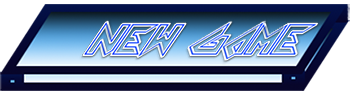
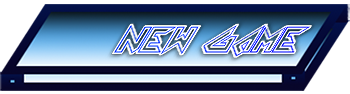
half progress MainMenuGUI

Changed region(s): [[0.2286, 0.2128, 0.9143, 0.6596]]

diff --git a/src/engine/GUIScenes/MainMenuGUI.java b/src/engine/GUIScenes/MainMenuGUI.java
@@ -9,7 +9,6 @@ package engine.GUIScenes;
 import engine.*;
 import static engine.Game.gameFrame;
 import java.awt.Color;
-import java.awt.Font;
 import java.awt.Graphics;
 import java.awt.Graphics2D;
 import java.awt.Image;
@@ -24,14 +23,17 @@ public class MainMenuGUI extends Scene
     private Image bgTexture;
     private Image titleTexture;
     private Image newgameTexture;
+    private Image achievementTexture;
+    private Image optionsTexture;
+    private Image exitTexture;
     
-    private int pos;
+    private float transparentPercentage;
     
     public MainMenuGUI()
     {
         super("MainMenuGUI");
         
-        pos = Game.ResolutionHeight;
+        transparentPercentage = 0f;
     }
     
     public void LoadContent()
@@ -39,6 +41,9 @@ public class MainMenuGUI extends Scene
         bgTexture = ImageLoader.getImage("mainmenu_bg");
         titleTexture = ImageLoader.getImage("title");
         newgameTexture = ImageLoader.getImage("newgame");
+        achievementTexture = ImageLoader.getImage("achievement");
+        optionsTexture = ImageLoader.getImage("options");
+        exitTexture = ImageLoader.getImage("exit");
     }
     
     @Override
@@ -52,10 +57,11 @@ public class MainMenuGUI extends Scene
     @Override
     public void Update()
     {
-        if (pos > (Game.ResolutionHeight)*0.025f)
+        if (transparentPercentage < 1f)
         {
-            pos-= Game.ResolutionHeight*0.01f;
-        }/*
+            transparentPercentage += 0.01f;
+        }
+        /*
         if (pos > 100)
         {
         SceneManager.SwitchScene("AchievementMenu");
@@ -78,9 +84,14 @@ public class MainMenuGUI extends Scene
         if (Game.mode == 2)
         {
             Graphics2D g2D = (Graphics2D) g;
+            
             g2D.drawImage(bgTexture, 0, 0, getWidth(), getHeight(), this);
-            g2D.drawImage(titleTexture,(int)(getWidth()*0.2f),pos,titleTexture.getWidth(this),titleTexture.getHeight(this),this);
-            g2D.drawImage(newgameTexture,(int)(getWidth()*(-0.09f)),(int)(getHeight()*0.3f),newgameTexture.getWidth(this),newgameTexture.getHeight(this),this);
+            g2D.drawImage(titleTexture,(int)(getWidth()*0.2f),(int)(getHeight()*0.025f),titleTexture.getWidth(this),titleTexture.getHeight(this),this);
+            
+            g2D.drawImage(newgameTexture,(int)(getWidth()*(-0.09f)),(int)(getHeight()*0.28f),newgameTexture.getWidth(this),newgameTexture.getHeight(this),this);
+            g2D.drawImage(achievementTexture,(int)(getWidth()*(-0.11f)),(int)(getHeight()*0.45f),achievementTexture.getWidth(this),achievementTexture.getHeight(this),this);
+            g2D.drawImage(optionsTexture,(int)(getWidth()*(-0.13f)),(int)(getHeight()*0.63f),optionsTexture.getWidth(this),optionsTexture.getHeight(this),this);
+            g2D.drawImage(exitTexture,(int)(getWidth()*(-0.15f)),(int)(getHeight()*0.80f),exitTexture.getWidth(this),exitTexture.getHeight(this),this);       
         }
     }
 }

diff --git a/src/engine/ImageLoader.java b/src/engine/ImageLoader.java
@@ -33,6 +33,9 @@ public class ImageLoader extends JPanel
         allImages.add(loadImage("Image/title.png"));
         allImages.add(loadImage("Image/MainMenu/mainmenu_bg.png"));
         allImages.add(loadImage("Image/MainMenu/newgame.png"));
+        allImages.add(loadImage("Image/MainMenu/achievement.png"));
+        allImages.add(loadImage("Image/MainMenu/options.png"));
+        allImages.add(loadImage("Image/MainMenu/exit.png"));
     }
     
     public static Image getImage(String imgName)
@@ -48,6 +51,18 @@ public class ImageLoader extends JPanel
         else if ("newgame".equalsIgnoreCase(imgName))
         {
             return allImages.get(2);
+        }
+        else if ("achievement".equalsIgnoreCase(imgName))
+        {
+            return allImages.get(3);
+        }
+        else if ("options".equalsIgnoreCase(imgName))
+        {
+            return allImages.get(4);
+        }
+        else if ("exit".equalsIgnoreCase(imgName))
+        {
+            return allImages.get(5);
         }
         return null;
     }
